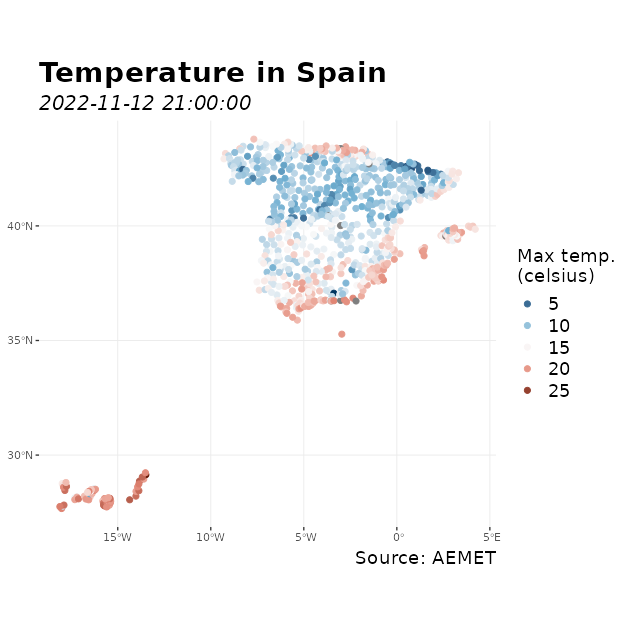
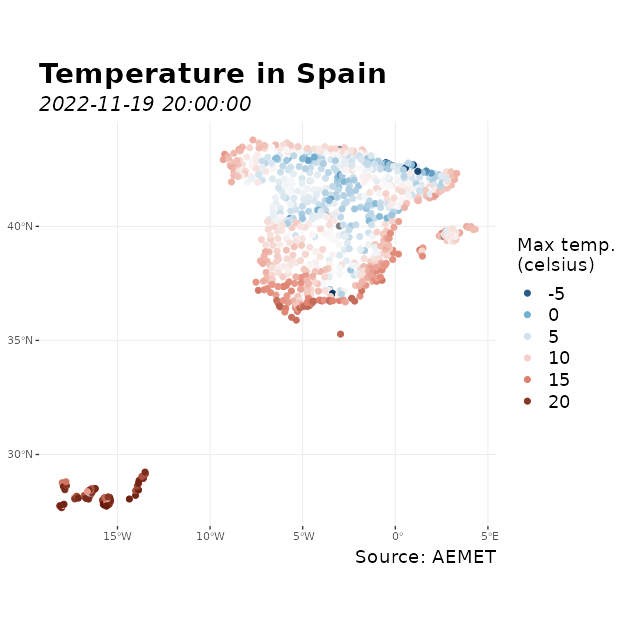
Update docs with pkgdev

diff --git a/README.md b/README.md
@@ -124,16 +124,16 @@ aemet_last_obs("9434")
 #> # A tibble: 24 × 25
 #>    idema   lon fint                 prec   alt  vmax    vv    dv   lat  dmax
 #>    <chr> <dbl> <dttm>              <dbl> <dbl> <dbl> <dbl> <dbl> <dbl> <dbl>
-#>  1 9434  -1.00 2022-11-12 21:00:00     0   249   2.3   1.1   150  41.7   135
-#>  2 9434  -1.00 2022-11-12 22:00:00     0   249   2.5   1.8   162  41.7   158
-#>  3 9434  -1.00 2022-11-12 23:00:00     0   249   2.7   1.7   149  41.7   148
-#>  4 9434  -1.00 2022-11-13 00:00:00     0   249   3     2.2   214  41.7   225
-#>  5 9434  -1.00 2022-11-13 01:00:00     0   249   2.4   0.7   282  41.7   218
-#>  6 9434  -1.00 2022-11-13 02:00:00     0   249   2.4   0.8   230  41.7   218
-#>  7 9434  -1.00 2022-11-13 03:00:00     0   249   1.8   0.7   154  41.7   183
-#>  8 9434  -1.00 2022-11-13 04:00:00     0   249   4.1   2.6   122  41.7   125
-#>  9 9434  -1.00 2022-11-13 05:00:00     0   249   3.8   1.1   174  41.7   128
-#> 10 9434  -1.00 2022-11-13 06:00:00     0   249   3     1.7   136  41.7   143
+#>  1 9434  -1.00 2022-11-19 20:00:00     0   249  10.3   7     308  41.7   303
+#>  2 9434  -1.00 2022-11-19 21:00:00     0   249  10     7.2   305  41.7   320
+#>  3 9434  -1.00 2022-11-19 22:00:00     0   249   9.1   2.6   287  41.7   320
+#>  4 9434  -1.00 2022-11-19 23:00:00     0   249   6.8   5     278  41.7   295
+#>  5 9434  -1.00 2022-11-20 00:00:00     0   249   9.4   3.7   272  41.7   280
+#>  6 9434  -1.00 2022-11-20 01:00:00     0   249  11.5   8.8   308  41.7   298
+#>  7 9434  -1.00 2022-11-20 02:00:00     0   249  13.4   8     297  41.7   300
+#>  8 9434  -1.00 2022-11-20 03:00:00     0   249  10.7   8.6   311  41.7   313
+#>  9 9434  -1.00 2022-11-20 04:00:00     0   249   9.9   5.3   296  41.7   310
+#> 10 9434  -1.00 2022-11-20 05:00:00     0   249   7.9   6.3   289  41.7   285
 #> # … with 14 more rows, and 15 more variables: ubi <chr>, pres <dbl>, hr <dbl>,
 #> #   stdvv <dbl>, ts <dbl>, pres_nmar <dbl>, tamin <dbl>, ta <dbl>, tamax <dbl>,
 #> #   tpr <dbl>, stddv <dbl>, inso <dbl>, tss5cm <dbl>, pacutp <dbl>,
@@ -172,14 +172,14 @@ data_observation <- aemet_last_obs(station)
 knitr::kable(head(data_observation))
 ```
 
-| idema |       lon | fint                | prec | alt | vmax |  vv |  dv |      lat | dmax | ubi                 |  pres |  hr | stdvv |  ts | pres_nmar | tamin |   ta | tamax | tpr | stddv | inso | tss5cm | pacutp | tss20cm |
-|:------|----------:|:--------------------|-----:|----:|-----:|----:|----:|---------:|-----:|:--------------------|------:|----:|------:|----:|----------:|------:|-----:|------:|----:|------:|-----:|-------:|-------:|--------:|
-| 9434  | -1.004167 | 2022-11-12 21:00:00 |    0 | 249 |  2.3 | 1.1 | 150 | 41.66056 |  135 | ZARAGOZA AEROPUERTO | 995.3 |  93 |   0.2 | 9.3 |    1025.9 |  10.4 | 10.4 |  11.1 | 9.3 |    25 |    0 |   11.8 |      0 |    14.4 |
-| 9434  | -1.004167 | 2022-11-12 22:00:00 |    0 | 249 |  2.5 | 1.8 | 162 | 41.66056 |  158 | ZARAGOZA AEROPUERTO | 994.9 |  94 |   0.3 | 9.1 |    1025.5 |  10.1 | 10.1 |  10.4 | 9.2 |    10 |    0 |   11.4 |      0 |    14.3 |
-| 9434  | -1.004167 | 2022-11-12 23:00:00 |    0 | 249 |  2.7 | 1.7 | 149 | 41.66056 |  148 | ZARAGOZA AEROPUERTO | 994.4 |  94 |   0.4 | 8.5 |    1025.0 |   9.6 |  9.6 |  10.1 | 8.7 |    24 |    0 |   11.1 |      0 |    14.1 |
-| 9434  | -1.004167 | 2022-11-13 00:00:00 |    0 | 249 |  3.0 | 2.2 | 214 | 41.66056 |  225 | ZARAGOZA AEROPUERTO | 994.2 |  95 |   0.5 | 8.7 |    1024.9 |   9.3 |  9.4 |   9.8 | 8.7 |    16 |    0 |   10.8 |      0 |    14.0 |
-| 9434  | -1.004167 | 2022-11-13 01:00:00 |    0 | 249 |  2.4 | 0.7 | 282 | 41.66056 |  218 | ZARAGOZA AEROPUERTO | 993.9 |  94 |   0.2 | 7.6 |    1024.6 |   8.7 |  8.7 |   9.5 | 7.8 |    27 |    0 |   10.5 |      0 |    13.8 |
-| 9434  | -1.004167 | 2022-11-13 02:00:00 |    0 | 249 |  2.4 | 0.8 | 230 | 41.66056 |  218 | ZARAGOZA AEROPUERTO | 993.6 |  96 |   0.6 | 7.8 |    1024.4 |   8.3 |  8.4 |   8.7 | 7.8 |    58 |    0 |   10.2 |      0 |    13.6 |
+| idema |       lon | fint                | prec | alt | vmax |  vv |  dv |      lat | dmax | ubi                 |  pres |  hr | stdvv |  ts | pres_nmar | tamin |  ta | tamax | tpr | stddv | inso | tss5cm | pacutp | tss20cm |
+|:------|----------:|:--------------------|-----:|----:|-----:|----:|----:|---------:|-----:|:--------------------|------:|----:|------:|----:|----------:|------:|----:|------:|----:|------:|-----:|-------:|-------:|--------:|
+| 9434  | -1.004167 | 2022-11-19 20:00:00 |    0 | 249 | 10.3 | 7.0 | 308 | 41.66056 |  303 | ZARAGOZA AEROPUERTO | 989.7 |  62 |   0.9 | 9.5 |    1020.2 |   9.7 | 9.7 |   9.9 | 2.9 |     7 |    0 |   11.0 |      0 |    12.7 |
+| 9434  | -1.004167 | 2022-11-19 21:00:00 |    0 | 249 | 10.0 | 7.2 | 305 | 41.66056 |  320 | ZARAGOZA AEROPUERTO | 990.0 |  63 |   0.9 | 9.1 |    1020.6 |   9.3 | 9.4 |   9.7 | 2.7 |     8 |    0 |   10.8 |      0 |    12.7 |
+| 9434  | -1.004167 | 2022-11-19 22:00:00 |    0 | 249 |  9.1 | 2.6 | 287 | 41.66056 |  320 | ZARAGOZA AEROPUERTO | 990.2 |  64 |   0.8 | 8.1 |    1020.9 |   8.5 | 8.7 |   9.4 | 2.3 |    25 |    0 |   10.5 |      0 |    12.6 |
+| 9434  | -1.004167 | 2022-11-19 23:00:00 |    0 | 249 |  6.8 | 5.0 | 278 | 41.66056 |  295 | ZARAGOZA AEROPUERTO | 989.9 |  64 |   0.8 | 8.0 |    1020.6 |   8.2 | 8.5 |   8.7 | 2.1 |     8 |    0 |   10.1 |      0 |    12.5 |
+| 9434  | -1.004167 | 2022-11-20 00:00:00 |    0 | 249 |  9.4 | 3.7 | 272 | 41.66056 |  280 | ZARAGOZA AEROPUERTO | 990.1 |  66 |   0.8 | 7.9 |    1020.8 |   8.5 | 8.6 |   8.7 | 2.7 |    17 |    0 |    9.9 |      0 |    12.4 |
+| 9434  | -1.004167 | 2022-11-20 01:00:00 |    0 | 249 | 11.5 | 8.8 | 308 | 41.66056 |  298 | ZARAGOZA AEROPUERTO | 989.8 |  64 |   1.2 | 8.6 |    1020.4 |   8.4 | 9.2 |   9.2 | 2.7 |     7 |    0 |    9.7 |      0 |    12.2 |
 
 ``` r
 
